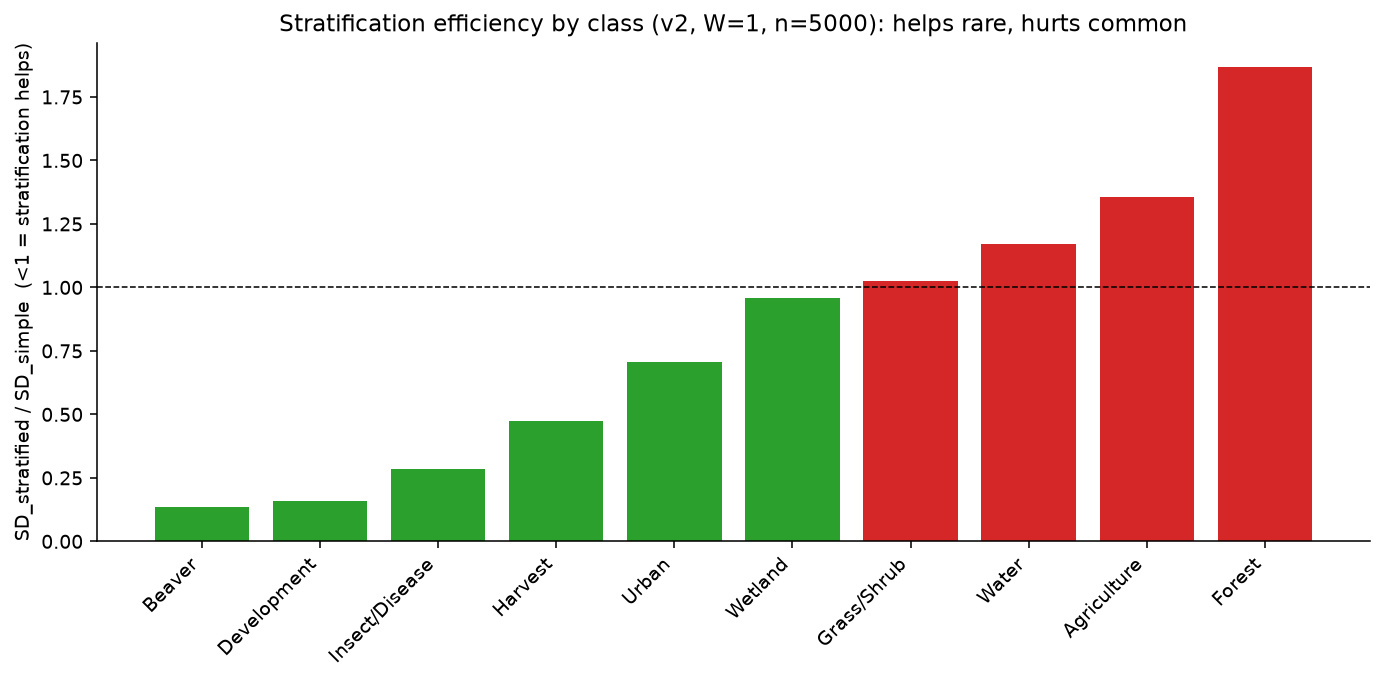
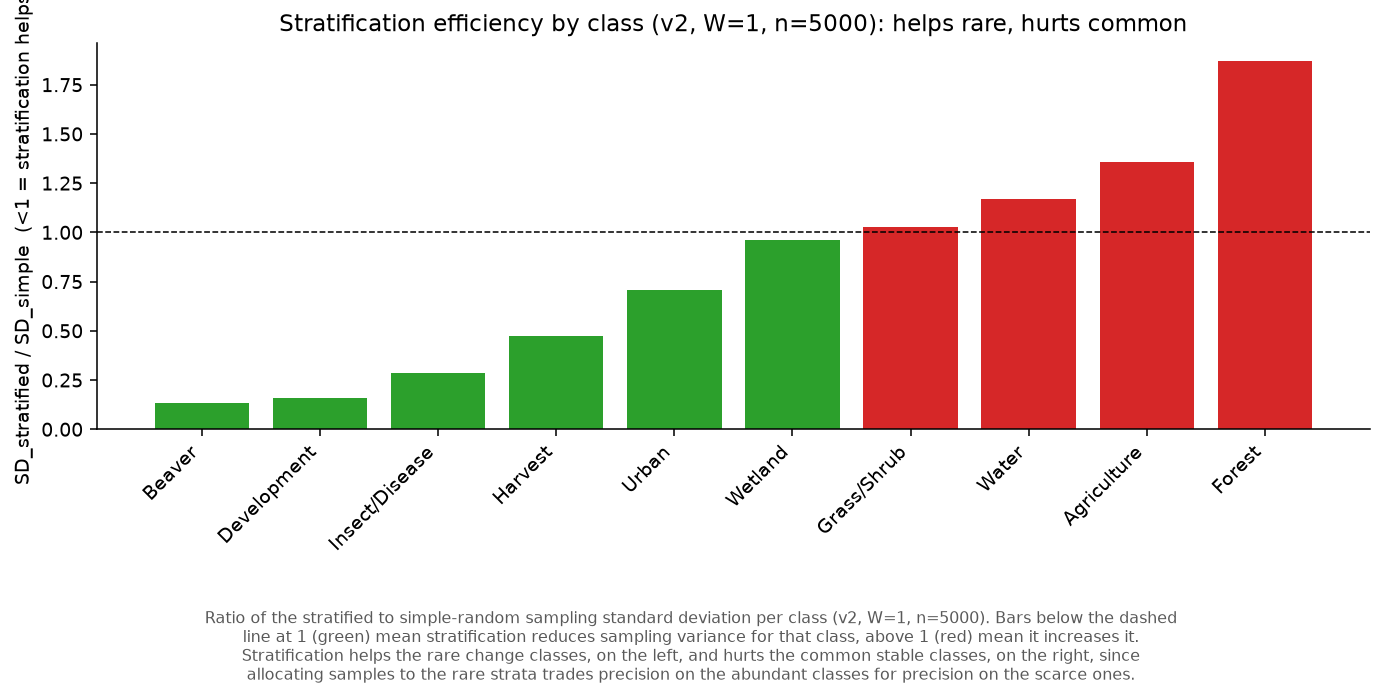
Add descriptive caption under the stratification-efficiency figure
Add a reusable _caption helper and use it on strat_efficiency.png so the figure
explains what the ratio means, what the green/red and dashed line indicate, and
the rare-helps / common-hurts takeaway, instead of relying on the title alone.
Regenerated both the 10-class and 5-class figures via --plots-only, so no Monte
Carlo numbers changed.

diff --git a/scripts/sampling_experiment_ABCD.py b/scripts/sampling_experiment_ABCD.py
@@ -557,6 +557,16 @@ def _logscale(ax, axes="x"):
 LABELED_N = (20, 100, 500, 2000, 5000)   # label a readable subset; rest are unlabeled ticks
 
 
+def _caption(fig, text, width=120):
+    """Add a wrapped descriptive caption below the figure, reserving space for it. Call this in place
+    of fig.tight_layout(); the caption is captured by bbox_inches='tight' at save time."""
+    import textwrap
+    wrapped = "\n".join(textwrap.wrap(text, width))
+    nlines = wrapped.count("\n") + 1
+    fig.tight_layout(rect=[0, 0.02 + 0.035 * nlines, 1, 1])   # reserve bottom room for the caption
+    fig.text(0.5, 0.01, wrapped, ha="center", va="bottom", fontsize=8, color="0.35")
+
+
 def _nticks(ax, n_values, label_all=False):
     """Put ticks at the actual n values. Label only a subset by default (no sci-notation / minor
     clutter); pass label_all=True to label every n value."""
@@ -661,7 +671,13 @@ def _make_plots(names, versions):
     ax.set_ylabel("SD_stratified / SD_simple  (<1 = stratification helps)")
     ax.set_title(f"Stratification efficiency by class (v2, W=1, n={nmax}): helps rare, hurts common")
     ax.set_xticks(range(len(order))); ax.set_xticklabels(order.cls, rotation=45, ha="right"); _classic(ax)
-    fig.tight_layout(); fig.savefig(os.path.join(OUT, "strat_efficiency.png"), dpi=140, bbox_inches="tight")
+    _caption(fig, f"Ratio of the stratified to simple-random sampling standard deviation per class "
+                  f"(v2, W=1, n={nmax}). Bars below the dashed line at 1 (green) mean stratification "
+                  "reduces sampling variance for that class, above 1 (red) mean it increases it. "
+                  "Stratification helps the rare change classes, on the left, and hurts the common "
+                  "stable classes, on the right, since allocating samples to the rare strata trades "
+                  "precision on the abundant classes for precision on the scarce ones.")
+    fig.savefig(os.path.join(OUT, "strat_efficiency.png"), dpi=140, bbox_inches="tight")
     plt.close(fig)
 
     # 5) class absence vs n (simple, v2, W=1), line per class